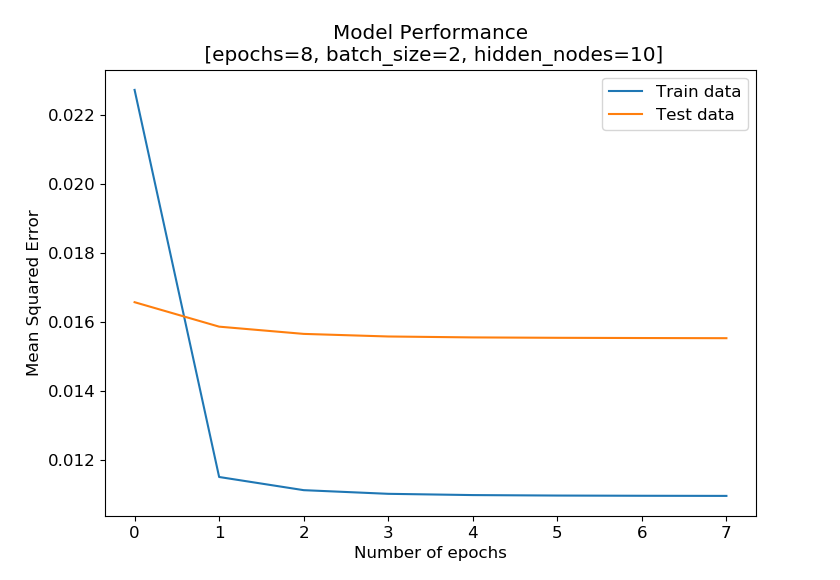
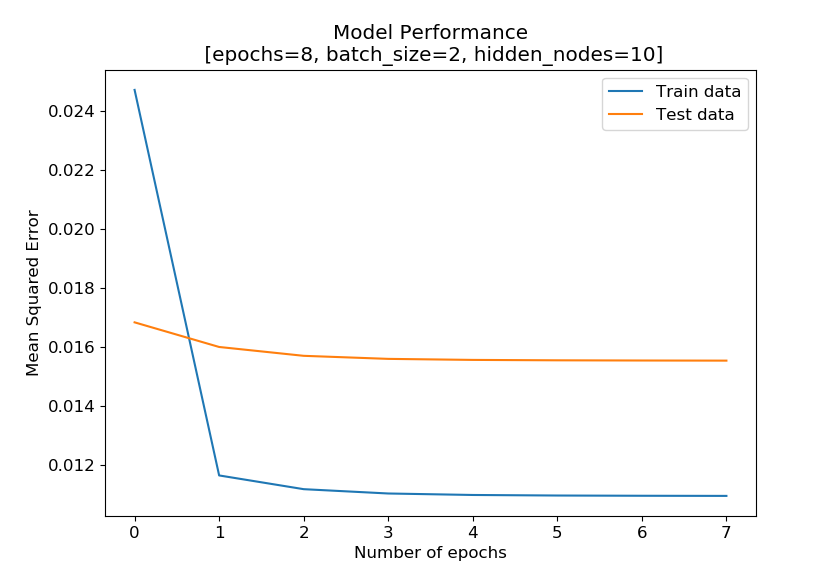
rnn update

diff --git a/Assignment_2/MachineLearning.py b/Assignment_2/MachineLearning.py
@@ -275,50 +275,97 @@ def FFNN(features, target, pred_features, power_solution, lmbd_vals, eta_vals, d
 	return y_pred, power_solution, activation, solver, alpha, learning_rate_init
 
 
-def RNN_gridsearch(features, target, pred_features, power_solution):
+def RNN_gridsearch(input_node, look_back, epochs, batch_size):
 	""" Finding the best parameters using GridSearchCV """
 
 
-	# We could maybe try something ish like these: 
-	# 	hidden_node = [4, 6, 10, 15]     	
+	# We could maybe try something ish like these:
+	# 	hidden_node = [4, 6, 10, 15]
 	#	epoch_size  = [5, 10, 15, 20]   			(=150 in PP lecture slide, takes loooong time..)
 	#	batch_size  = [1, 5, 10]
-	#	optimizer='adam'/'sdg'           
+	#	optimizer='adam'/'sdg'
 	#	activation='sigmoid'/'relu'
-	
-	pass
+
+	parameters  = {	'units': [3, 10, 30, 60], \
+					'activation': ['sigmoid', 'relu'], \
+					'recurrent_activation': ['sigmoid', 'linear'], \
+					'optimizer': ['adam', 'sdg']}
+	rnn = Sequential()
+	rnn.add(LSTM(units=10, input_shape=(input_node, look_back)))
+	rnn.add(Dense(1))                              # output layer
+	rnn.compile(loss='mean_squared_error')
+
+	grid_search = GridSearchCV(rnn, parameters, n_jobs=-1)
+	grid_search.fit(trainX, trainY, epochs=epochs, batch_size=batch_size)
+
+	best_params = grid_search.best_params_
+	print("\nBest parameters: ", best_params)
+
+	return best_params
 
 def RNN(look_back, trainX, trainY, testX, testy, summary=False):
 	# https://www.artificiallyintelligentclaire.com/recurrent-neural-networks-python/
 	# https://machinelearningmastery.com/time-series-prediction-lstm-recurrent-neural-networks-python-keras/
 	# Installing keras: https://anaconda.org/conda-forge/keras
 	# look_back is 'the number of features'
-	
+
 	# Values from slide 45 from lecture PP TimeSeriesProduction... If i have implemented correctly xD
-	input_node  = 1     # = n_time_steps???? Should always be 1 in our case like the output_node???? unsure.....
+	#input_node  = 1     # = n_time_steps???? Should always be 1 in our case like the output_node???? unsure.....
+	input_node  = trainX.shape[1]
 	hidden_node = 10  	# number of hidden nodes in the hidden layer
 	output_node = 1	  	# output node (1 because we want a single prediction output)
-	n_epochs 	= 8  	# an epoch is one pass over the training dataset, consists of one or more batches
-	batches 	= 2		# a collection of samples that the network will process, used to update the weights
+	n_epochs 	= 10  	# an epoch is one pass over the training dataset, consists of one or more batches
+	batches 	= 16	# a collection of samples that the network will process, used to update the weights
 
 	# Create and fit the LSTM network (default activation is sigmoid)
 	# Can later experiment with adding more hidden layers to the RNN
 	# return_sequences=True (look at this if adding more hidden layers) # stateful=True
 	model = Sequential()
 
+	"""
+	# YouTube
+	model.add(LSTM(4, activation='relu', return_sequences=True, input_shape=(trainX.shape[1], look_back)))
+	model.add(Dropout(0.2))
+	model.add(LSTM(20, activation='relu', return_sequences=True))
+	model.add(Dropout(0.2))
+	model.add(LSTM(80, activation='relu', return_sequences=True))
+	model.add(Dropout(0.2))
+	model.add(LSTM(120, activation='relu'))
+	model.add(Dropout(0.2))
+
+	model.add(Dense(1))
+	model.summary()
+
+	model.compile(loss='mean_squared_error', optimizer='adam')
+	model.fit(trainX, trainY, epochs=10, batch_size=16) # 32
+	"""
+
+
+
+
 	model.add(LSTM(units=hidden_node,\
 				   activation='sigmoid',\
 				   input_shape=(input_node, look_back)))       # both input & first hidden layer
+
 	model.add(Dense(output_node))                              # output layer
 	model.compile(loss='mean_squared_error', optimizer='adam')
 
+
+	""" Faar det ikke til aa funke...
+	best_params   		= RNN_gridsearch(input_node, look_back, n_epochs, batches)
+	exit()
+	reg 		  		= LSTM().set_params(**best_params)
+	units				= best_params['units']
+	activation    		= best_params['activation']
+	"""
+	# Er det denne vi maa bruke GSCV paa?
 	history = model.fit(trainX, trainY,\
 		                epochs=n_epochs,\
 		                batch_size=batches,\
 		                validation_data=(testX, testy),\
-		                verbose=2,\
 		                shuffle=False)
 
+	# Tror ikke denne sier saa mye xP
 	P.history_plot(history, hidden_node, n_epochs, batches, savefig=True)
 
 	if summary == True:
@@ -329,6 +376,7 @@ def RNN(look_back, trainX, trainY, testX, testy, summary=False):
 	testPredict  = model.predict(testX)
 
 	return trainPredict, testPredict
+
 
 
 

diff --git a/Assignment_2/main.py b/Assignment_2/main.py
@@ -1,8 +1,8 @@
 """
 IN5410 - Energy informatics | Assignment 2
 """
-#import os, random, xlsxwriter, sys, argparse, warnings, csv
-import sys, argparse, warnings, csv
+import os, random, sys, argparse, warnings, csv
+#import sys, argparse, warnings, csv
 
 import matplotlib.pyplot 	as plt
 import numpy               	as np
